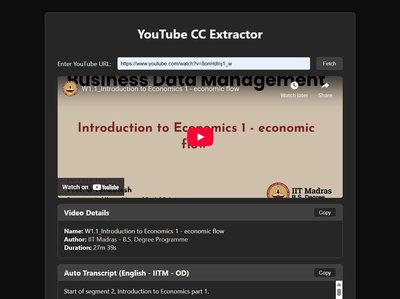
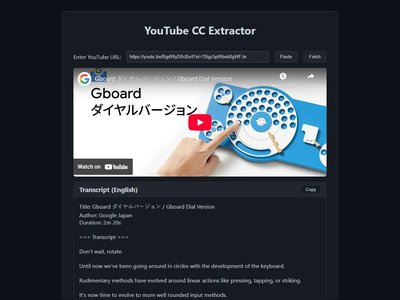
Updated Youtube extractor.

diff --git a/yt-cc-extractor/main.js b/yt-cc-extractor/main.js
@@ -5,6 +5,7 @@ console.log('=== YouTube CC Extractor ===');
 // === DOM Elements ===
 const formEl = document.querySelector('form');
 const urlInput = document.querySelector('.youtube-url');
+const pasteBtn = document.querySelector('.paste-btn');
 
 const loaderEl = document.querySelector('.loader');
 const embedContainer = document.querySelector('.embed-container');
@@ -18,6 +19,7 @@ const copyBtn = document.querySelector('.copy-btn');
 // === Event Listeners ===
 formEl.addEventListener('submit', handleFormSubmit);
 copyBtn.addEventListener('click', handleCopy);
+pasteBtn.addEventListener('click', handlePasteAndGo);
 
 // === Core Logic ===
 
@@ -114,4 +116,26 @@ function handleCopy() {
     copyBtn.textContent = 'Copied!';
     setTimeout(() => (copyBtn.textContent = 'Copy'), 1500);
   });
+}
+
+async function handlePasteAndGo() {
+  try {
+    const text = (await navigator.clipboard.readText()).trim();
+    if (!text) {
+      alert('Clipboard is empty.');
+      return;
+    }
+
+    const videoId = extractVideoId(text);
+    if (!videoId) {
+      alert('Clipboard does not contain a valid YouTube link.');
+      return;
+    }
+
+    urlInput.value = text;
+    formEl.requestSubmit();
+  } catch (err) {
+    console.error(err);
+    alert('Failed to read clipboard.');
+  }
 }

diff --git a/yt-cc-extractor/style.css b/yt-cc-extractor/style.css
@@ -42,7 +42,7 @@ main {
 @media (max-width: 600px) {
   body,
   main {
-    padding: 2rem 0.5rem;
+    padding: 1rem;
   }
 }
 
@@ -55,7 +55,7 @@ form {
   display: flex;
   flex-wrap: wrap;
   align-items: center;
-  justify-content: center;
+  justify-content: end;
   gap: 1rem;
 }
 

diff --git a/yt-cc-extractor/index.html b/yt-cc-extractor/index.html
@@ -29,6 +29,7 @@
           required
           class="youtube-url"
         />
+        <button type="button" class="paste-btn">Paste</button>
         <button type="submit">Fetch</button>
       </form>
 
